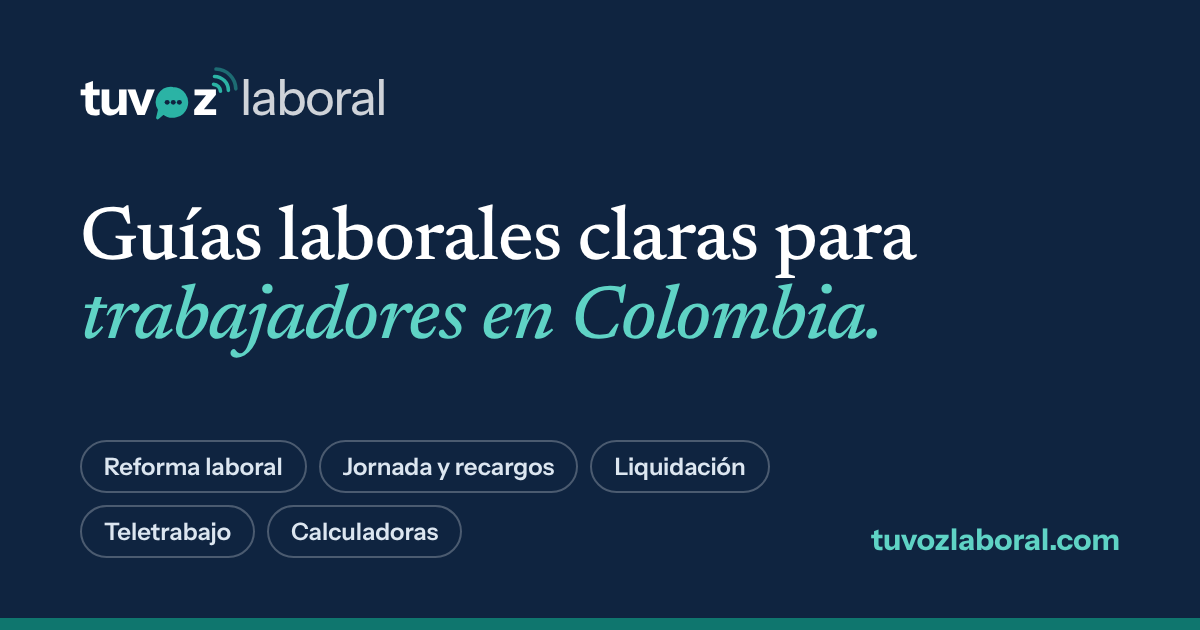
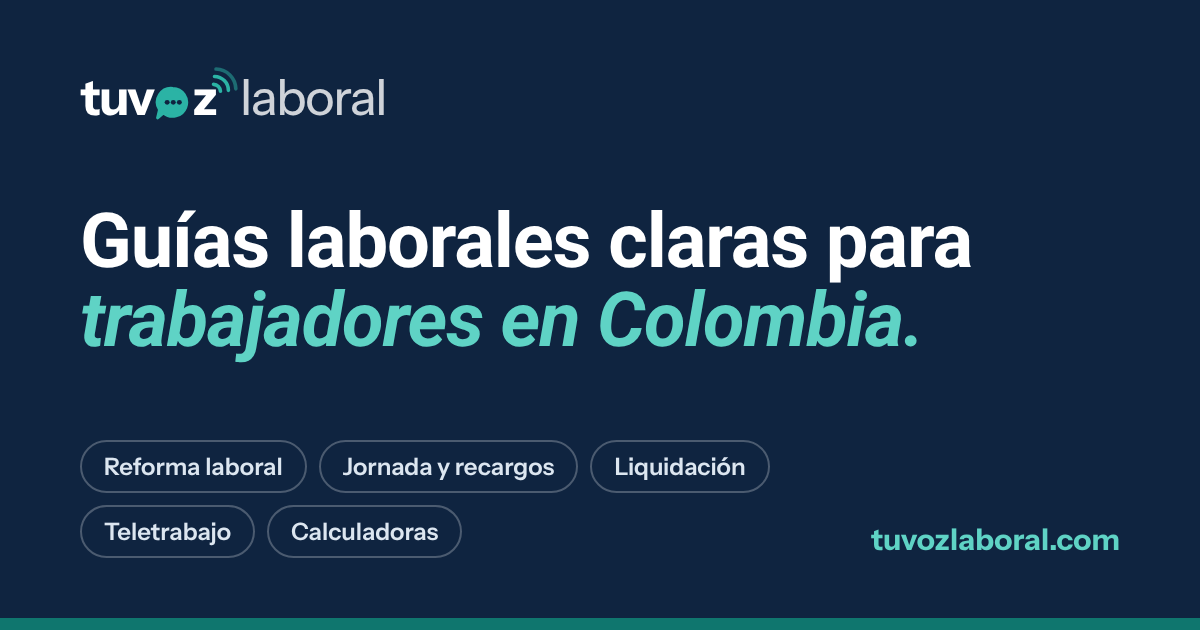
estilo: tipografía Roboto en todo el sitio, como Infobae
Títulos en negrita y texto en Roboto regular (fuente libre, Apache 2.0,
servida desde el propio sitio). El logotipo conserva su tipografía de marca.
Imagen para compartir regenerada con la nueva tipografía.

Claude-Session: https://claude.ai/code/session_01HdPVmvqPsyhVhR99whsnpx

Changed region(s): [[0.0617, 0.3317, 0.8325, 0.573]]

diff --git a/video/promo.html b/video/promo.html
@@ -7,8 +7,8 @@
      pausa todas y las lleva al segundo exacto de cada cuadro. Para verlo en
      vivo, abre este archivo en el navegador: las animaciones corren solas. -->
 <style>
-@font-face { font-family: 'Newsreader'; src: url('../node_modules/@fontsource-variable/newsreader/files/newsreader-latin-wght-normal.woff2') format('woff2'); font-weight: 200 800; }
-@font-face { font-family: 'Newsreader'; src: url('../node_modules/@fontsource-variable/newsreader/files/newsreader-latin-wght-italic.woff2') format('woff2'); font-weight: 200 800; font-style: italic; }
+@font-face { font-family: 'Roboto'; src: url('../node_modules/@fontsource-variable/roboto/files/roboto-latin-wght-normal.woff2') format('woff2'); font-weight: 100 900; }
+@font-face { font-family: 'Roboto'; src: url('../node_modules/@fontsource-variable/roboto/files/roboto-latin-wght-italic.woff2') format('woff2'); font-weight: 100 900; font-style: italic; }
 @font-face { font-family: 'Instrument Sans'; src: url('../node_modules/@fontsource-variable/instrument-sans/files/instrument-sans-latin-wght-normal.woff2') format('woff2'); font-weight: 400 700; }
 :root {
   --ink: #0F2440; --navy: #1B3A5C; --teal: #0F766E; --teal-strong: #0B5E58; --teal-tint: #E6F2F1;
@@ -18,7 +18,7 @@
 * { box-sizing: border-box; margin: 0; padding: 0; }
 html, body { width: 1080px; height: 1920px; overflow: hidden; background: var(--ink); }
 body { font-family: 'Instrument Sans', system-ui, sans-serif; color: var(--ink); -webkit-font-smoothing: antialiased; }
-.serif { font-family: 'Newsreader', Georgia, serif; font-optical-sizing: auto; }
+.serif { font-family: 'Roboto', system-ui, sans-serif; font-optical-sizing: auto; }
 
 /* Escenas: aparecen en --s y se van en --e (segundos del reloj global). */
 .scene { position: absolute; inset: 0; padding: 150px 96px; display: flex; flex-direction: column; justify-content: center;
@@ -42,8 +42,8 @@ body { font-family: 'Instrument Sans', system-ui, sans-serif; color: var(--ink);
 .brand svg { width: 64px; height: 64px; }
 .kicker { font-size: 34px; font-weight: 600; letter-spacing: .14em; text-transform: uppercase; color: var(--teal); }
 .dark .kicker { color: #5FD3C5; }
-h1 { font-family: 'Newsreader', Georgia, serif; font-weight: 500; font-size: 118px; line-height: 1.04; letter-spacing: -.02em; }
-h2 { font-family: 'Newsreader', Georgia, serif; font-weight: 500; font-size: 92px; line-height: 1.06; letter-spacing: -.015em; }
+h1 { font-family: 'Roboto', system-ui, sans-serif; font-weight: 700; font-size: 118px; line-height: 1.04; letter-spacing: -.02em; }
+h2 { font-family: 'Roboto', system-ui, sans-serif; font-weight: 700; font-size: 92px; line-height: 1.06; letter-spacing: -.015em; }
 .lead { font-size: 46px; line-height: 1.4; color: var(--slate); }
 .dark .lead { color: #C9D5E3; }
 .hl { color: #5FD3C5; font-style: italic; }
@@ -61,7 +61,7 @@ h2 { font-family: 'Newsreader', Georgia, serif; font-weight: 500; font-size: 92p
 .pos { background: var(--teal-tint); color: var(--teal-strong); border-color: rgba(15, 118, 110, .3); }
 .neg { background: var(--amber-tint); color: var(--amber); border-color: rgba(180, 83, 9, .3); }
 .mix { background: var(--mist); color: var(--navy); border-color: var(--line); }
-.card h3 { font-family: 'Newsreader', Georgia, serif; font-weight: 500; font-size: 56px; line-height: 1.12; margin-top: 22px; }
+.card h3 { font-family: 'Roboto', system-ui, sans-serif; font-weight: 700; font-size: 56px; line-height: 1.12; margin-top: 22px; }
 .card p { font-size: 34px; color: var(--slate); margin-top: 12px; }
 
 /* Teléfono con captura real que se desplaza */
@@ -107,7 +107,7 @@ h2 { font-family: 'Newsreader', Georgia, serif; font-weight: 500; font-size: 92p
 .calcs { display: grid; grid-template-columns: 1fr 1fr; gap: 26px; margin-top: 50px; }
 .calc { background: #fff; border: 2px solid var(--line); border-radius: 22px; padding: 36px 36px; }
 .calc .k { font-size: 28px; font-weight: 700; color: var(--teal); letter-spacing: .06em; text-transform: uppercase; }
-.calc h3 { font-family: 'Newsreader', Georgia, serif; font-weight: 500; font-size: 50px; line-height: 1.1; margin-top: 14px; }
+.calc h3 { font-family: 'Roboto', system-ui, sans-serif; font-weight: 700; font-size: 50px; line-height: 1.1; margin-top: 14px; }
 .calc p { font-size: 30px; color: var(--slate); margin-top: 10px; }
 .formula { margin-top: 44px; background: var(--teal-tint); color: var(--teal-strong); border-radius: 18px; padding: 28px 34px; font-size: 38px; font-weight: 600; }
 

diff --git a/scripts/og/og-default.html b/scripts/og/og-default.html
@@ -5,8 +5,8 @@
 <title>Imagen para compartir · TuVozLaboral</title>
 <!-- Fuente de public/og-default.png (1200×630). Regenerar: node scripts/og/generar-og.cjs -->
 <style>
-@font-face { font-family: 'Newsreader'; src: url('../../node_modules/@fontsource-variable/newsreader/files/newsreader-latin-wght-normal.woff2') format('woff2'); font-weight: 200 800; }
-@font-face { font-family: 'Newsreader'; src: url('../../node_modules/@fontsource-variable/newsreader/files/newsreader-latin-wght-italic.woff2') format('woff2'); font-weight: 200 800; font-style: italic; }
+@font-face { font-family: 'Roboto'; src: url('../../node_modules/@fontsource-variable/roboto/files/roboto-latin-wght-normal.woff2') format('woff2'); font-weight: 100 900; }
+@font-face { font-family: 'Roboto'; src: url('../../node_modules/@fontsource-variable/roboto/files/roboto-latin-wght-italic.woff2') format('woff2'); font-weight: 100 900; font-style: italic; }
 @font-face { font-family: 'Instrument Sans'; src: url('../../node_modules/@fontsource-variable/instrument-sans/files/instrument-sans-latin-wght-normal.woff2') format('woff2'); font-weight: 400 700; }
 * { box-sizing: border-box; margin: 0; padding: 0; }
 html, body { width: 1200px; height: 630px; overflow: hidden; }
@@ -16,7 +16,7 @@ body { background: #0F2440; color: #fff; font-family: 'Instrument Sans', system-
 .brand svg.o { display: inline-block; height: .74em; width: auto; vertical-align: -.13em; margin: 0 .01em; }
 .brand svg.wv { display: inline-block; height: .56em; width: auto; vertical-align: .25em; margin: 0 -.02em 0 .01em; overflow: visible; transform: rotate(-45deg); transform-origin: 0% 60%; }
 .brand .lab { font-weight: 450; color: rgba(255,255,255,.8); }
-h1 { font-family: 'Newsreader', Georgia, serif; font-weight: 500; font-size: 76px; line-height: 1.04; letter-spacing: -.015em; max-width: 900px; }
+h1 { font-family: 'Roboto', system-ui, sans-serif; font-weight: 700; font-size: 76px; line-height: 1.04; letter-spacing: -.015em; max-width: 900px; }
 h1 em { color: #5FD3C5; }
 .foot { display: flex; align-items: flex-end; justify-content: space-between; gap: 40px; }
 .topics { display: flex; flex-wrap: wrap; gap: 12px; max-width: 760px; }

diff --git a/src/pages/Search.tsx b/src/pages/Search.tsx
@@ -90,7 +90,7 @@ export default function Search() {
 
   return (
     <div className="page py-10 sm:py-14">
-      <h1 className="text-4xl font-medium tracking-[-0.01em] sm:text-5xl">Buscar</h1>
+      <h1 className="text-4xl font-bold tracking-[-0.01em] sm:text-5xl">Buscar</h1>
       <form role="search" className="mt-6 max-w-2xl" onSubmit={(e) => { e.preventDefault(); setTerm(normalizeQuery(text)); }}>
         <label htmlFor="buscar-sitio" className="sr-only">Qué quieres buscar</label>
         <div className="flex gap-2">
@@ -211,7 +211,7 @@ function NoResults({ text }: { text: string }) {
   return (
     <div className="space-y-10">
       <div className="max-w-prose">
-        <h2 className="text-2xl font-medium">No encontramos «{text}»</h2>
+        <h2 className="text-2xl font-bold">No encontramos «{text}»</h2>
         <p className="mt-3 text-slate">
           Prueba con otra palabra, por ejemplo «prima» en vez de «pago de junio». Los temas que se buscan y todavía no tienen guía nos ayudan a
           decidir qué escribir: se cuentan de forma anónima, sin guardar quién buscó.

diff --git a/src/index.css b/src/index.css
@@ -1,4 +1,4 @@
-@import '@fontsource-variable/newsreader';
+@import '@fontsource-variable/roboto';
 @import '@fontsource-variable/instrument-sans';
 
 @tailwind base;
@@ -51,8 +51,8 @@
     @apply bg-paper font-sans text-base text-ink antialiased;
   }
   h1, h2, h3 {
-    @apply font-serif text-ink;
-    font-optical-sizing: auto;
+    @apply font-serif font-bold text-ink;
+    letter-spacing: -0.01em;
     text-wrap: balance;
   }
   :focus-visible {
@@ -95,11 +95,17 @@
 }
 
 @layer components {
+  /* Títulos de tarjetas y cifras destacadas («font-serif»): en negrita, como los titulares de Infobae.
+     Un font-medium o font-semibold explícito en el elemento sigue mandando. */
+  .font-serif {
+    font-weight: 700;
+    letter-spacing: -0.01em;
+  }
   .page {
     @apply mx-auto w-full max-w-6xl px-4 sm:px-6 lg:px-8;
   }
   .testimony {
-    @apply max-w-prose font-serif text-[1.0625rem] leading-[1.75rem] text-ink;
+    @apply max-w-prose font-sans text-[1.0625rem] leading-[1.75rem] text-ink;
     white-space: pre-line;
   }
   .btn {

diff --git a/src/pages/GuideEditor.tsx b/src/pages/GuideEditor.tsx
@@ -114,7 +114,7 @@ function Editor({ guide: g, onSaved }: { guide: GuideDetail; onSaved: () => void
       <p className="text-sm text-slate"><Link to="/moderacion?tab=guias" className="hover:text-ink hover:underline">Volver a las guías</Link></p>
       <header className="mt-3 flex flex-wrap items-start justify-between gap-6 border-b border-ink/80 pb-6">
         <div className="min-w-0">
-          <h1 className="text-3xl font-medium sm:text-4xl">{form.title || 'Guía sin título'}</h1>
+          <h1 className="text-3xl font-bold sm:text-4xl">{form.title || 'Guía sin título'}</h1>
           <div className="mt-3 flex flex-wrap items-center gap-x-4 gap-y-2 text-sm text-slate">
             <span className="rounded-[3px] border border-line px-2 py-0.5 text-xs font-semibold text-ink">{statusLabel[g.status]}</span>
             {g.last_verified_at && <span>Verificada el {formatDate(g.last_verified_at)}</span>}

diff --git a/tailwind.config.js b/tailwind.config.js
@@ -21,8 +21,12 @@ export default {
         danger: { DEFAULT: 'rgb(var(--danger) / <alpha-value>)', tint: 'rgb(var(--danger-tint) / <alpha-value>)' },
       },
       fontFamily: {
-        serif: ['"Newsreader Variable"', 'Georgia', 'serif'],
-        sans: ['"Instrument Sans Variable"', 'system-ui', 'sans-serif'],
+        // Roboto en todo el sitio, como Infobae: títulos en negrita y texto en regular.
+        // «serif» se conserva como nombre para los títulos y cifras destacadas.
+        serif: ['"Roboto Variable"', 'Roboto', 'system-ui', 'sans-serif'],
+        sans: ['"Roboto Variable"', 'Roboto', 'system-ui', 'sans-serif'],
+        // Solo el logotipo conserva su tipografía de marca.
+        logo: ['"Instrument Sans Variable"', 'system-ui', 'sans-serif'],
       },
       fontSize: {
         xs: ['0.8125rem', { lineHeight: '1.25rem' }],

diff --git a/src/pages/CompanyProfile.tsx b/src/pages/CompanyProfile.tsx
@@ -82,7 +82,7 @@ export default function CompanyProfile() {
       <header className="bg-mist">
         <div className="page pb-10 pt-8">
           <p className="text-sm text-slate"><Link to="/empresas" className="hover:text-ink hover:underline">Empresas</Link></p>
-          <h1 className="mt-3 text-4xl font-medium tracking-[-0.01em] sm:text-5xl">{c.trade_name}</h1>
+          <h1 className="mt-3 text-4xl font-bold tracking-[-0.01em] sm:text-5xl">{c.trade_name}</h1>
           {c.legal_name && c.legal_name !== c.trade_name && <p className="mt-2 text-lg text-slate">{c.legal_name}</p>}
           <dl className="mt-8 grid grid-cols-2 gap-x-8 gap-y-5 border-t border-ink/80 pt-5 sm:grid-cols-4">
             <div><dt className="text-sm text-slate">Sector</dt><dd className="mt-1 font-semibold">{c.sector}</dd></div>

diff --git a/src/pages/Home.tsx b/src/pages/Home.tsx
@@ -44,7 +44,7 @@ function Hero() {
       <div className="page grid items-center gap-14 pb-20 pt-12 lg:grid-cols-[minmax(0,1.15fr)_minmax(0,1fr)] lg:pb-24 lg:pt-12">
         <div className="min-w-0">
           <p className="mb-4 text-sm font-semibold uppercase tracking-wide text-white/70">Para trabajadores en Colombia</p>
-          <h1 className="text-[2.5rem] font-medium leading-[2.875rem] tracking-[-0.01em] text-white sm:text-5xl lg:text-[4.25rem] lg:leading-[4.5rem]">
+          <h1 className="text-[2.5rem] font-bold leading-[2.875rem] tracking-[-0.01em] text-white sm:text-5xl lg:text-[4.25rem] lg:leading-[4.5rem]">
             Conoce tus derechos laborales en Colombia.
           </h1>
           <p className="mt-6 max-w-[36rem] text-lg leading-8 text-white/80">

diff --git a/src/pages/Rights.tsx b/src/pages/Rights.tsx
@@ -368,7 +368,7 @@ export function RightsArticle() {
           </nav>
           <div className={data.cover_url ? 'mt-4 grid gap-8 lg:grid-cols-[minmax(0,1fr)_minmax(0,26rem)] lg:items-center xl:grid-cols-[minmax(0,1fr)_minmax(0,30rem)]' : 'mt-4'}>
             <div>
-              <h1 className="max-w-3xl text-4xl font-medium leading-[1.1] tracking-[-0.01em] sm:text-5xl">{data.title}</h1>
+              <h1 className="max-w-3xl text-4xl font-bold leading-[1.1] tracking-[-0.01em] sm:text-5xl">{data.title}</h1>
               <p className="mt-5 max-w-prose text-lg leading-8 text-slate">{data.summary}</p>
             </div>
             {data.cover_url && (

diff --git a/src/components/ui.tsx b/src/components/ui.tsx
@@ -218,7 +218,7 @@ export function useAsync<T>(fn: () => Promise<T>, deps: unknown[]) {
 export function PageHeader({ title, children }: { title: string; children?: ReactNode }) {
   return (
     <header className="border-b border-ink/80 pb-8">
-      <h1 className="text-4xl font-medium tracking-[-0.01em] sm:text-5xl">{title}</h1>
+      <h1 className="text-4xl font-bold tracking-[-0.01em] sm:text-5xl">{title}</h1>
       {children && <div className="mt-4 max-w-prose text-lg leading-8 text-slate">{children}</div>}
     </header>
   );

diff --git a/src/components/ExperienceItem.tsx b/src/components/ExperienceItem.tsx
@@ -32,7 +32,7 @@ export function ExperienceItem({ exp, showCompany = true, full = false }: { exp:
         {exp.status === 'en_disputa' && <StatusChip status="en_disputa" />}
       </div>
       {full ? (
-        <h1 id={`exp-${exp.id}`} className="mt-4 text-4xl font-medium leading-[1.1] tracking-[-0.01em] sm:text-5xl">
+        <h1 id={`exp-${exp.id}`} className="mt-4 text-4xl font-bold leading-[1.1] tracking-[-0.01em] sm:text-5xl">
           {exp.title || exp.category_name}
         </h1>
       ) : (

diff --git a/src/components/GuideBody.tsx b/src/components/GuideBody.tsx
@@ -30,7 +30,7 @@ export function GuideBody({ content, slug }: { content: string; slug?: string })
   const blocks = parseGuide(content);
   const ids = headingIds(blocks);
   return (
-    <div className="guide-body max-w-prose font-serif text-[1.125rem] leading-[1.85rem] text-ink">
+    <div className="guide-body max-w-prose font-sans text-[1.125rem] leading-[1.85rem] text-ink">
       {blocks.map((b, i) => {
         switch (b.type) {
           case 'heading':
